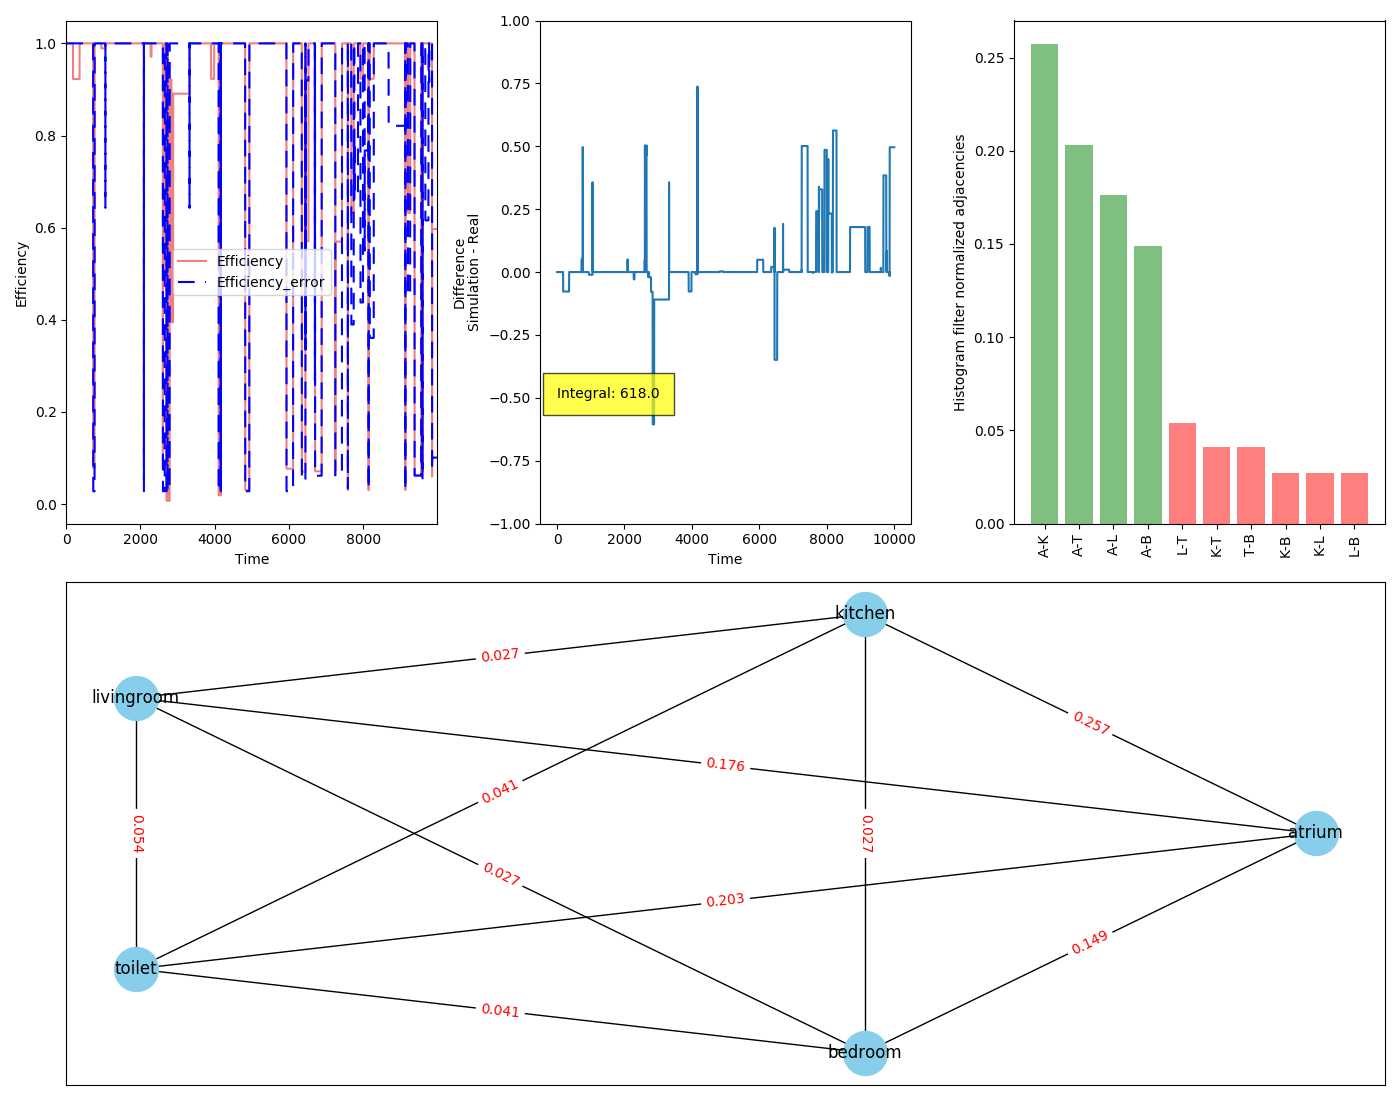
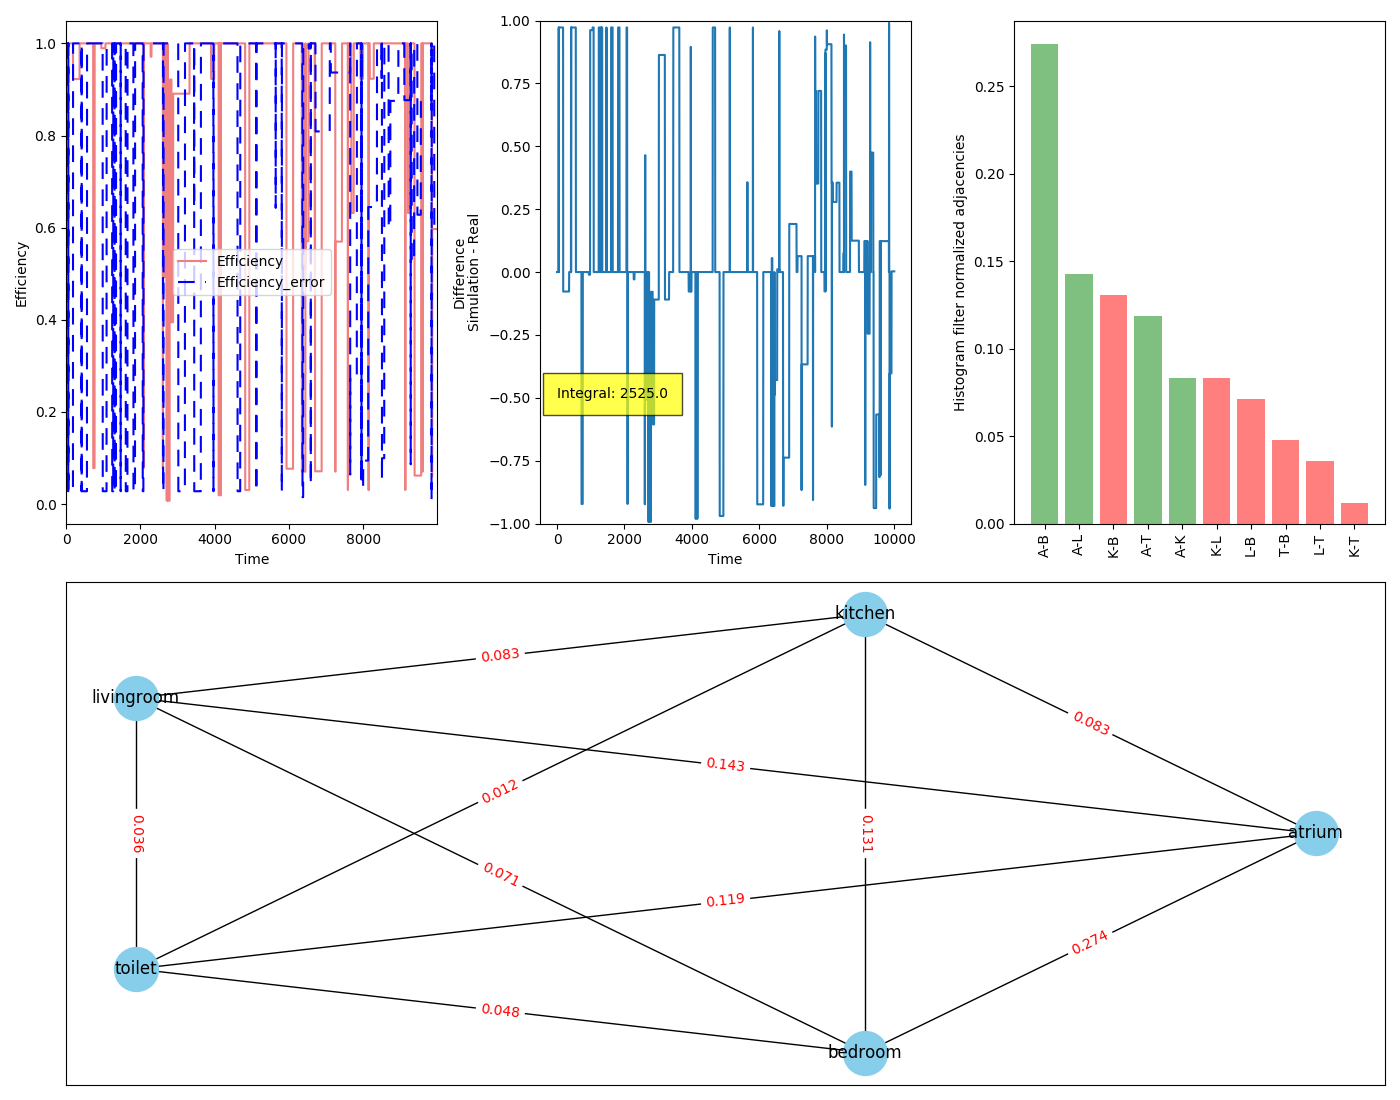
Loaded all Heatmaps with simulation duration of 100000

diff --git a/HistogramFilter/Dynamic_Histogram_Filter.py b/HistogramFilter/Dynamic_Histogram_Filter.py
@@ -2,11 +2,14 @@ import json
 import sys
 
 import numpy as np
+from matplotlib import gridspec
+
 import Heatmap
 import Belief
 import ReadFile
 import pandas as pd
 import matplotlib.pyplot as plt
+import copy
 
 DEBUG = True
 
@@ -19,6 +22,11 @@ def open_json(conf):
 
 
 def system_set_up(data_config):
+    """
+    Function that loads all the value from json file
+    :param data_config: fullyconn.json file
+    :return: Belief: the class with all probability values and rf:HF_input
+    """
     rf = ReadFile.ReadFile(
         data_config["info"]["input_file_path"] + data_config["info"]["input_file_name"])  # legge HF_input
     bel = data_config["probability"]["bel_t0"]  # probabilita di essere in quella stanza all inizio
@@ -39,6 +47,13 @@ def system_set_up(data_config):
 
 
 def adj_dict(data_config):
+    """
+    Function that create two dictionaries
+
+    :return:adj_dict [key='adjacencies made with the two index of probability' :value='number of adjacenies founded
+    (start_value=0)']
+    dict_col_index [key='columns probability names' : value='index of the column'
+    """
     adj_dict = {}
     dict_col_index = {}
     for i, c in enumerate(data_config["info"]["columns_name"][1:]):
@@ -49,21 +64,22 @@ def adj_dict(data_config):
     return adj_dict, dict_col_index
 
 
-def found_max(df, df_1, adj_dict, dict_col_index, prob_state, sim_adj, col_dic):
+def found_max(df, df_1, adj_dict, dict_col_index, prob_state, correct_matrix):
     res = df.iloc[1:]
     res_1 = df_1.iloc[1:]
     index_max = res.idxmax()
     index_max_1 = res_1.idxmax()
     if index_max != index_max_1:
         adj_dict[index_max_1 + index_max] += 1
-        new_prob_state(prob_state, adj_dict, dict_col_index, index_max_1, sim_adj, col_dic)
+        new_prob_state(prob_state, adj_dict, dict_col_index, index_max_1, correct_matrix)
 
 
-def new_prob_state(prob_state, adj_dict, dict_col_index, index_1, sim_adj, col_dic):
-    prob_state[dict_col_index[index_1]][dict_col_index[index_1]] = 0.2
+def new_prob_state(prob_state, adj_dict, dict_col_index, index_1, correct_matrix):
+    prob_state[dict_col_index[index_1]][dict_col_index[index_1]] = correct_matrix["bel_t0"][0]
     for c in columns[1:]:
         if c != index_1:
-            prob_state[dict_col_index[index_1]][dict_col_index[c]] = (adj_dict[index_1 + c] / normalized_prob(index_1, adj_dict))
+            prob_state[dict_col_index[index_1]][dict_col_index[c]] = (
+                    adj_dict[index_1 + c] / normalized_prob(index_1, adj_dict))
 
 
 def normalized_prob(index_1, adj_dict):
@@ -114,18 +130,29 @@ def dictionary_room(data_config):
     return dictionary
 
 
-def main(window):
+def main(config_file, correct_file, window):
+    """
+    Main that create an HF_out with a dynamic Filter. It starts with a fully connected matrix and when it founds a
+    adjacency it updates the row belonging to this adjacency(e.g.: atrium-kitchen the row is the first because atrium is
+    the first room).
+    Every auto adjacency(e.g.: atrium-atrium) is fixed to 1 / number of rooms
+    The other values of the row are normalized to 0.8
+
+    :param window: fixed time before Histogram Filter becomes dynamic
+    """
     global columns
     # if len(sys.argv) < 2:
     #    print("Manca il nome del file json")
     #    sys.exit(1)
     folder = "Configurations_file/"
-    conf_file = folder + "config_fullyconn.json"
+    conf_file = folder + config_file
     config = open_json(conf_file)
     belief, rf = system_set_up(config)  # carica e inizializza
     data_in = rf.df  # carico HF_input
     columns = config["info"]["columns_name"]
     sim_file = open_json(config["info"]["adj_file"])
+    correct_file = open_json(folder + correct_file)
+    correct_matrix = correct_file["probability"]
     df = pd.DataFrame(columns=columns)
     i = 0
     sensor_measures_previous = [0 for x in range(0, len(belief.bel))]
@@ -133,10 +160,11 @@ def main(window):
     col_dic = dictionary_room(config)  # matrice colonna-stanza
     nps = []
     sim_adj = sim_file["room"]
+    pos = config["info"]["state_domain"]  # sono le iniziali delle stanze
     for colum in columns[1:]:
         row = np.full(len(columns) - 1, 1 / (len(columns) - 1))
         nps.append(row)
-    n_prob_state = np.array(nps)
+    n_prob_state = np.array(nps)  # create the initial n_prob_state
     while i < len(data_in.index):
         time = data_in.iloc[i, 0]  # prendo la colonna time di HF_input
         sensor_measures = list(data_in.iloc[i])[1:]  # prendo le colonne con le misure dei sensori
@@ -153,16 +181,18 @@ def main(window):
             tmp[columns[j]] = values[j]
         df = df.append(tmp, ignore_index=True)
         if i != 0:
-            found_max(df.iloc[i], df.iloc[i - 1], adj_dic, dict_col_index, n_prob_state, sim_adj, col_dic)
+            found_max(df.iloc[i], df.iloc[i - 1], adj_dic, dict_col_index, n_prob_state, correct_matrix)
         sensor_measures_previous = sensor_measures  # assegno a previous la misura precedente dei sensori
         i += 1
         if i % (60 * window) == 0 and i != 0:
             belief.prob_state = n_prob_state
     rooms = config["info"]["room_name"]
-    fig, ax = plt.subplots()
-    for colum in columns[1:]:
+    fig = plt.figure()
+    fig.set_size_inches(14, 11)
+    gs = gridspec.GridSpec(1, 2)
+    for colum in columns[1:]:  # make the wrong adjacencies negative for a better heatmap plot
         for c, col in enumerate(columns[1:]):
-            neg=-1
+            neg = -1
             if col != colum:
                 for room in sim_adj[col_dic[colum]]:
                     if room == col_dic[col]:
@@ -170,19 +200,55 @@ def main(window):
                         break
                     else:
                         n_prob_state[dict_col_index[colum]][c] = n_prob_state[dict_col_index[colum]][c] * neg
-                        neg=1
+                        neg = 1
     print(n_prob_state)
     print(adj_dic)
-    im, cbar = Heatmap.heatmap(n_prob_state, rooms, rooms, sim_adj,columns, dict_col_index,col_dic, ax=ax,
-                               cmap="RdYlGn", cbarlabel="probability",
-                               cbar_kw={'ticks': [np.min(n_prob_state)-1, np.max(n_prob_state)+1]})
-    cbar.ax.set_yticklabels(['Wrong\nlink', 'Real\nlink '])
-    texts = Heatmap.annotate_heatmap(im, data=n_prob_state, valfmt="{x:.3f}")
-    fig.tight_layout()
-    fig.savefig("./Heatmap_images/" + "Heatmap" + str(window))
+    ax0 = plt.subplot(gs[0, 0])  # row 0, col 0
+    im0, cbar0 = Heatmap.heatmap_offset(n_prob_state, rooms, rooms, sim_adj, columns, dict_col_index, col_dic, ax=ax0,
+                                        cmap="RdYlGn", cbarlabel="probability",
+                                        cbar_kw={'ticks': [np.min(n_prob_state) - 1, np.max(n_prob_state) + 1]})
+    cbar0.remove()
+    texts = Heatmap.annotate_heatmap_GrRed(im0, data=n_prob_state, valfmt="{x:.2f}")
+
+    ax1 = plt.subplot(gs[0, 1])  # row 0, col 1
+    data2 = copy.copy(n_prob_state)
+    for colum in pos[:]:  # see difference between these values and ideal ones
+        for c, col in enumerate(columns[1:]):
+            offset = 0
+            if col != "bel(" + colum + ")":
+                for room in sim_adj[col_dic["bel(" + colum + ")"]]:
+                    if room == col_dic[col]:
+                        if data2[dict_col_index["bel(" + colum + ")"]][c] - correct_matrix["prob" + colum][c] >= 0:
+                            data2[dict_col_index["bel(" + colum + ")"]][c] = 0.5
+                            offset = 0
+                            break
+                        else:
+                            norm_0_5 = 0.5 / correct_matrix["prob" + colum][c]
+                            data2[dict_col_index["bel(" + colum + ")"]][c] = 0.5 - norm_0_5 * (
+                                        correct_matrix["prob" + colum][c] - data2[dict_col_index["bel(" + colum + ")"]][
+                                    c])
+                            offset = 0
+                            break
+                    else:
+                        if data2[dict_col_index["bel(" + colum + ")"]][c] <= - 0.5:
+                            data2[dict_col_index["bel(" + colum + ")"]][c] = 0
+                            offset = 0
+                            break
+                        else:
+                            offset = 0.5
+                if offset == 0.5:
+                    data2[dict_col_index["bel(" + colum + ")"]][c] += offset
+    im1, cbar1 = Heatmap.heatmap(data2, rooms, rooms, sim_adj, columns, dict_col_index, col_dic, ax=ax1,
+                                 cmap="Reds", cbarlabel="probability",
+                                 cbar_kw={'ticks': [np.min(data2), np.max(data2)]})
+    cbar1.ax.set_yticklabels(['Bad', 'Good'])
+    texts = Heatmap.annotate_heatmap_Reds(im1, data=n_prob_state, data2=data2, valfmt="{x:.2f}")
+
+    # plt.tight_layout()
+    fig.savefig("./Heatmap_images/" + "Heatmap_house2_" + str(window))
     crate_file_output(data_in, df, config, window)
 
 
 if __name__ == "__main__":
-    for v in [10, 20, 30, 40, 50, 60, 70, 80, 90, 100, 120, 140, 166]:
-        main(v)
+    for v in [10, 100, 200, 300, 400, 500, 600, 700, 800, 900, 1200, 1400, 1600]:
+        main("config_house2_fullyconn.json", "config_house2.json", v)

diff --git a/HistogramFilter/EvaluateRealAdj.py b/HistogramFilter/EvaluateRealAdj.py
@@ -24,16 +24,20 @@ def open_json(file_name):
 
 
 def set_up(data_config):
+    """
+    Function that return the HF_out given by the chosen config.json
+    """
     data = ReadFile.ReadFile(data_config["info"]["output_file_path"] + data_config["info"]["output_file_name"]).df
     return data
 
 
-"""
-    Dictionary [key='the name of the room' : value='the index of the column with the probability of the room' 
-"""
-
-
 def dictionary_room(data_config):
+    """
+    Dictionary [key='the name of the room' : value='the index of the column with the probability of the room']
+    :param data_config: config.json or config_house1.json or config_house2.json ; all the file with the correct adjacency values
+    :return: dictionary
+    :rtype: dict
+    """
     key = data_config["info"]["room_name"]
     value = data_config["info"]["columns_name"][1:]
     dictionary = {}
@@ -43,6 +47,13 @@ def dictionary_room(data_config):
 
 
 def dict_histog(data_config):
+    """
+    Dictionary [key='the name of the room' : value='the first one or two letters used to identify a room']
+
+    :param data_config: config.json or config_house1.json or config_house2.json ; all the file with the correct adjacency values
+    :return: dictionary
+    :rtype: dict
+    """
     key = data_config["info"]["room_name"]
     value = data_config["info"]["state_domain"]
     dictionary = {}
@@ -51,12 +62,15 @@ def dict_histog(data_config):
     return dictionary
 
 
-"""
-    Found the max value between the probability of the rooms 
-"""
-
-
 def found_max(probability_array: pd.Series, data_config):
+    """
+    Found the max value between the probability of the rooms given by the Histogram Filter
+
+    :param probability_array: the row of HF_out
+    :type: pd.Series
+    :param data_config: config.json or config_house1.json or config_house2.json ; all the file with the correct adjacency values
+    :return: max value of probability and its index
+    """
     constant = len(data_config["info"]["state_domain"]) + 2
     res = probability_array.iloc[constant:].apply(float)
     val_max = res.max()
@@ -65,6 +79,16 @@ def found_max(probability_array: pd.Series, data_config):
 
 
 def color_bar(sim_config, filter_adj):
+    """
+    Function that create the colorbar for the histogram plot, if the adjacency is correct the color is green instead if
+    it is wrong the color is red
+
+    :param sim_config: the configurations.json used for doing TestMotionSimulator
+    :param filter_adj: all the adjacencies founded and sorted in descending order, edges of the Graph are used because
+    in this way duplicate adjacencies are removed easily
+    :type: networkx.Graph.edges
+    :return: array for color that the histogram plot need
+    """
     colors = np.empty(len(filter_adj), dtype=object)
     dict_adj = sim_config["room"]
     for i, k in enumerate(filter_adj):
@@ -78,6 +102,16 @@ def color_bar(sim_config, filter_adj):
 
 
 def main_static(file_correct, file_wrong):
+    """
+    Main function that compare the efficiency between two HF_out given by two different config.json.
+    The function plot the evaluation,the difference from the evaluation and the sum of this difference,the histogram of
+    the adjacencies founded and the graph of these adjacencies.
+    All the adjacencies are created when the max probability of the Histogram Filter change.
+    The final figure is saved in motion-simulator/Evaluate_images/
+
+    :param file_correct: is the correct config.json (config.json,config_house1.json,config_house2.json)
+    :param file_wrong: one of the wrong file in Configurations_file
+    """
     # if len(sys.argv) < 2:
     #    print("Manca il nome del file json")
     #    sys.exit(1)
@@ -173,6 +207,23 @@ def main_static(file_correct, file_wrong):
 
 
 def main_dynamic(file_correct, hf_out_dynamic, window):
+    """
+    Main function that compare the efficiency between two HF_out given by one config.json and hf_out_dynamic.
+    The function plot(1) the evaluation,the difference from the evaluation and the sum of this difference,the histogram of
+    the adjacencies founded and the graph of these adjacencies.
+    It also plot in another figure(2) the same as before except for the graph that is substituted by the Heatmap in
+    ./Heatmap_images of the dynamic file given
+    All the adjacencies are created when the max probability of the Histogram Filter change.
+    The two finals figure is saved in motion-simulator/Evaluate_images/Dynamic
+
+    :param file_correct: is the correct config.json (config.json,config_house1.json,config_house2.json)
+    :param hf_out_dynamic: is the respective HF_out of config_fullyconn.json
+    (config_fullyconn.json,config_fullyconn_house1.json,config_fullyconng_house2.json). This because the hf_out_dynamic
+    is created from these files.
+    :type: csv
+    :param window: amount of minutes that identify every my dynamic file.(More details on Dynamic_Histogram_Filter)
+    :type: int
+    """
     # if len(sys.argv) < 2:
     #    print("Manca il nome del file json")
     #    sys.exit(1)
@@ -202,6 +253,7 @@ def main_dynamic(file_correct, hf_out_dynamic, window):
         differencies.append(state - state_error)
         integral += abs(differencies[i])
         time.append(data.loc[i, 'Time'])
+        print(time)
         i += 1
     key_values = list(dictionary_rooms.keys())
     G = nx.Graph()
@@ -265,17 +317,17 @@ def main_dynamic(file_correct, hf_out_dynamic, window):
     nx.draw_networkx(G, ax=ax3, node_size=1000, pos=pos, node_color="skyblue")
     plt.tight_layout()
     #plt.show()
-    fig.savefig(config["info"]["input_file_path"] + "/Evaluate_images/1dynamic" + str(window) + "_" + config["info"][
+    fig.savefig(config["info"]["input_file_path"] + "/Evaluate_images/Dynamic//dynamic_house2/1dynamic" + str(window) + "_" + config["info"][
         "img_evaluation"])
 
     ax3.clear()
     heatmap = plt.imread("./Heatmap_images/Heatmap" + str(window) + ".png")
     ax3.axis("off")
     ax3.imshow(heatmap)
-    fig.savefig(config["info"]["input_file_path"] + "/Evaluate_images/2dynamic" + str(window) + "_" + config["info"][
+    fig.savefig(config["info"]["input_file_path"] + "/Evaluate_images/Dynamic/dynamic_house2/2dynamic" + str(window) + "_" + config["info"][
         "img_evaluation"])
 
 if __name__ == "__main__":
     # main_static("config_house1.json","config_house1.json")
-    for w in [10, 20, 30, 40, 50, 60, 70, 80, 90, 100, 120, 140, 166]:
-        main_dynamic("config.json", "dynamic"+str(w)+"minutes_HF_out_fullyconn.csv", w)
+    for w in [10, 100, 200, 300,400, 500, 600, 700, 800, 900, 1200, 1400, 1600]:
+        main_dynamic("config_house2.json", "dynamic"+str(w)+"minutes_HF_out_house2_fullyconn.csv", w)
